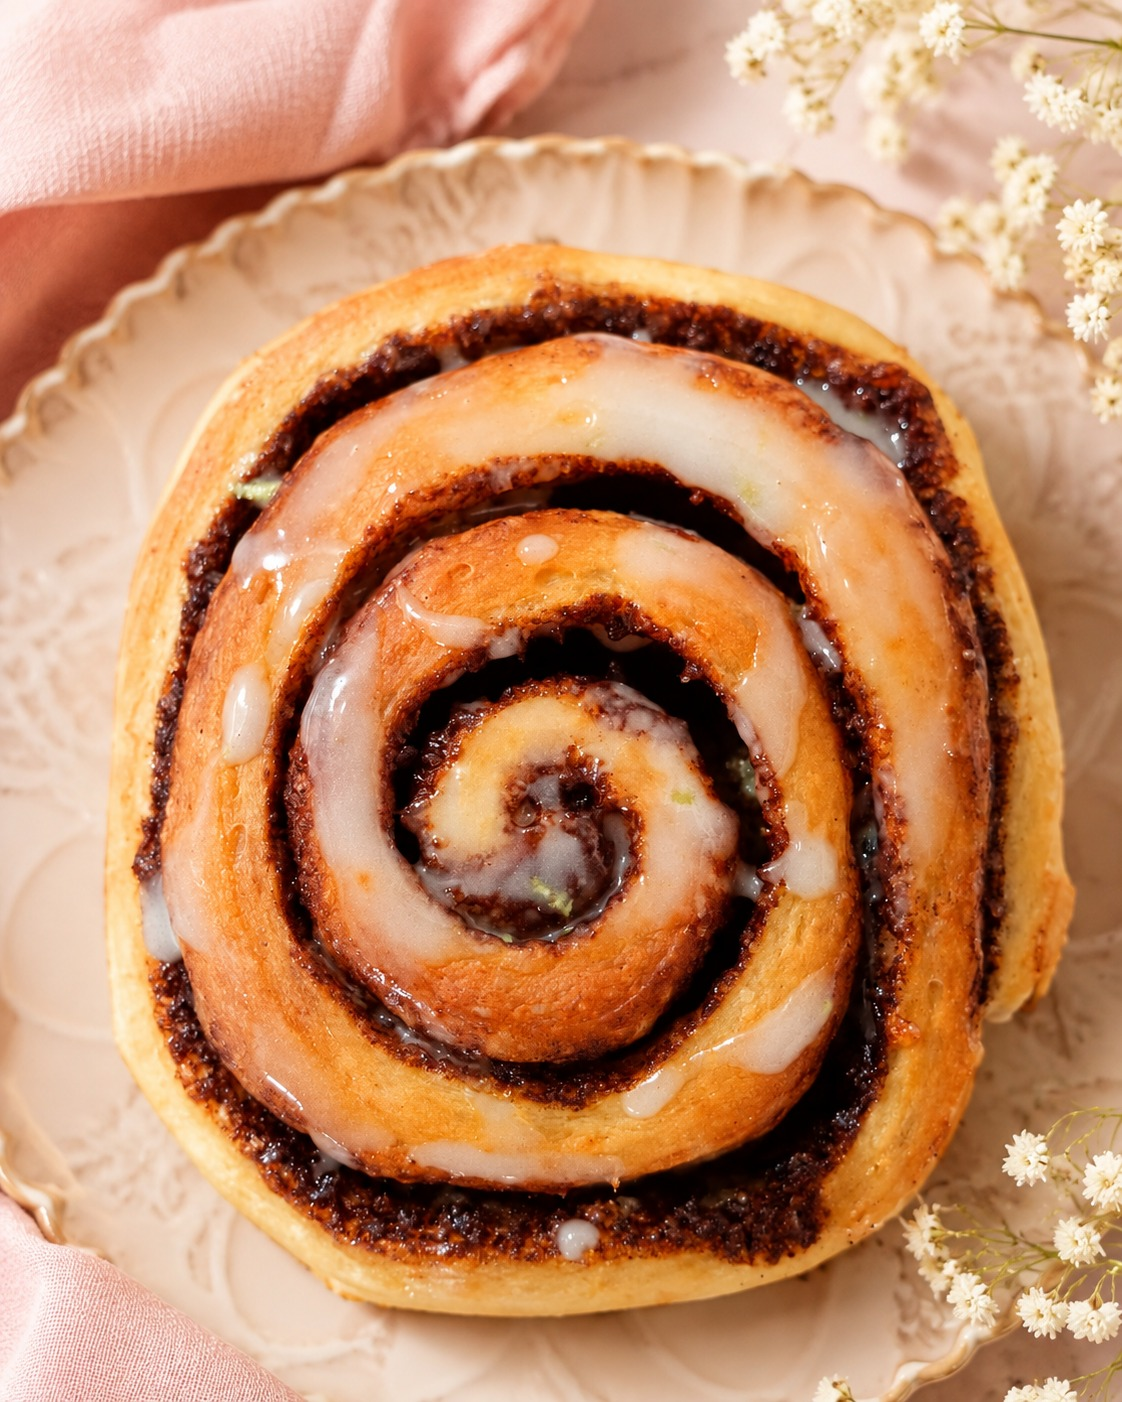
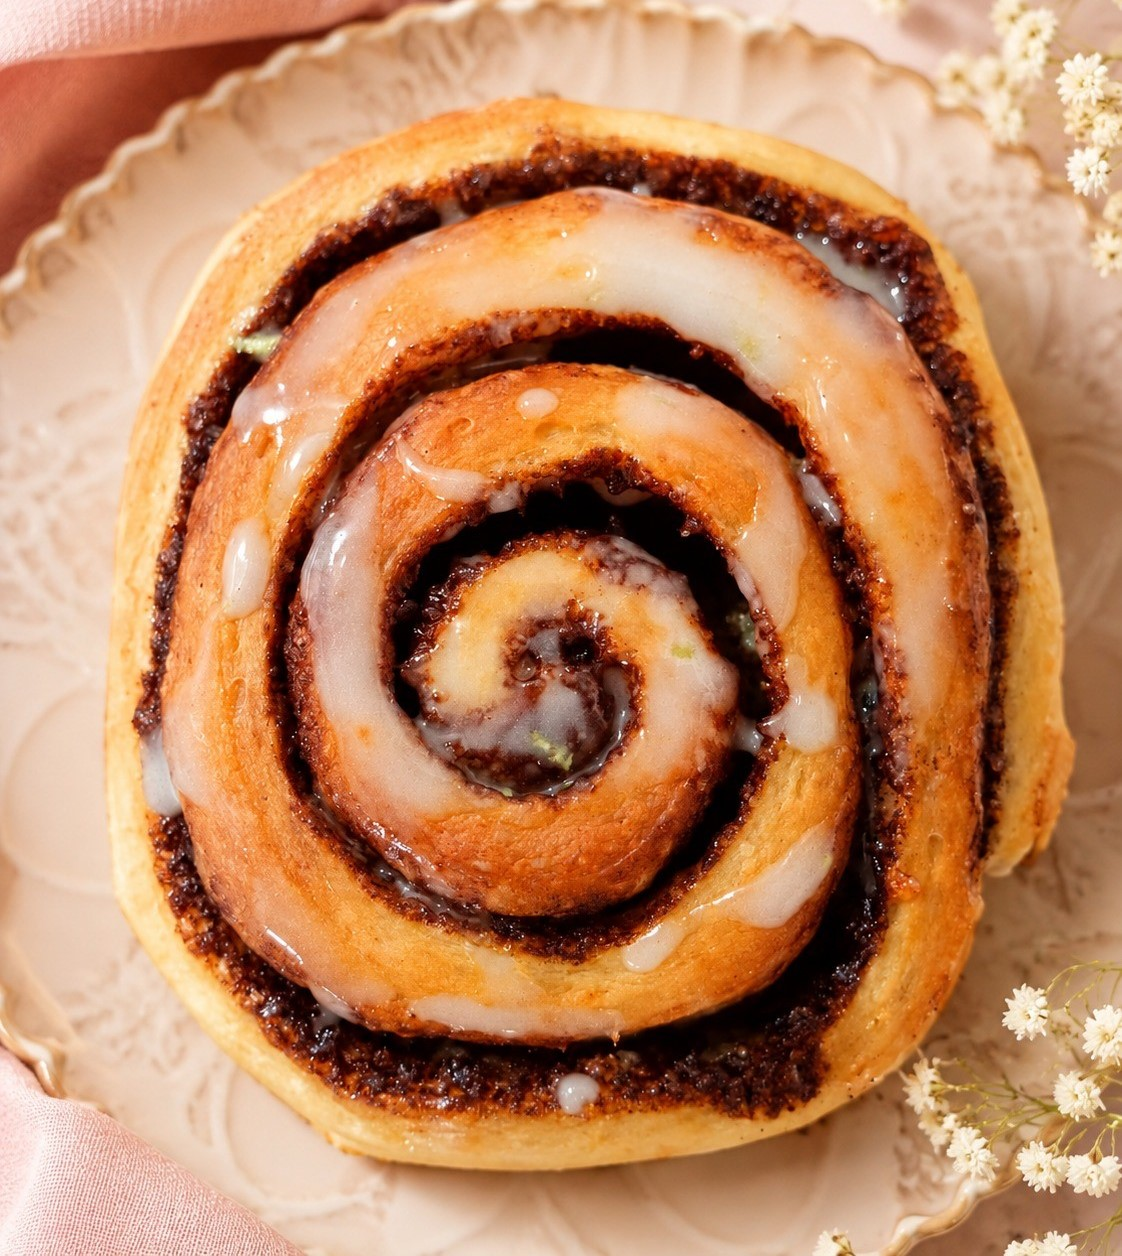
ajustes textos y se agregan fotos

diff --git a/app/page.tsx b/app/page.tsx
@@ -55,9 +55,10 @@ export default function Home() {
       <section className="hero">
         <div className="heroOverlay">
           <p className="eyebrow">HECHO CON INTENCIÓN</p>
-          <h1>Productos que<br />merecen ser descubiertos.</h1>
+          <h1 >Repostería y panadería hecha con cariño para disfrutar y compartir.</h1>
+          
           <p className="heroText">
-            Repostería y panadería hecha con cariño para disfrutar y compartir.
+            Productos que merecen ser descubiertos.
           </p>
           <a className="button" href="#productos">Ver productos</a>
         </div>
@@ -133,7 +134,7 @@ Dani es cercanía, sabor y amor en cada creación.
       <section id="reviews" className="section reviews">
         <div className="sectionHeading reviewsHeading">
           <div>
-            <p className="eyebrow">REVIEWS</p>
+            <p className="eyebrow"></p>
             <h2>Lo que dicen nuestros clientes</h2>
           </div>
         </div>
@@ -200,7 +201,7 @@ Dani es cercanía, sabor y amor en cada creación.
 
     <div>
       <Image
-        src="/images/galeria-4.jpg"
+        src="/images/alfajores.jpeg"
         alt="Panadería artesanal"
         fill
       />
@@ -208,7 +209,7 @@ Dani es cercanía, sabor y amor en cada creación.
 
     <div>
       <Image
-        src="/images/galeria-5.jpg"
+        src="/images/galeria-5.jpeg"
         alt="Productos artesanales"
         fill
       />

diff --git a/data/products.ts b/data/products.ts
@@ -36,26 +36,34 @@ export const products: Product[] = [
   },
   {
     id: 4,
-    name: "Producto especial",
+    name: "Alfajores",
     category: "Especiales",
-    description: "Agrega aquí tu producto destacado y una descripción breve.",
-    price: "$20.000",
-    image: "/images/cookies-rellenas.jpeg"
+    description: "Deliciosos alfajores rellenos de arequipe.",
+    price: "$15.000",
+    image: "/images/alfajor2.jpeg"
   },
   {
     id: 5,
-    name: "Producto especial",
+    name: "Pan de queso",
     category: "Especiales",
-    description: "Agrega aquí tu producto destacado y una descripción breve.",
+    description: "Delicioso pan de queso, suave y lleno de sabor.",
     price: "$20.000",
-    image: "/images/cookies-rellenas.jpeg"
+    image: "/images/panqueso.jpeg"
   },
   {
     id: 6,
-    name: "Producto especial",
+    name: "Pan de chocolate",
     category: "Especiales",
-    description: "Agrega aquí tu producto destacado y una descripción breve.",
+    description: "Delicioso pan de chocolate, suave y relleno cremoso.",
     price: "$20.000",
-    image: "/images/cookies-rellenas.jpeg"
+    image: "/images/pan-chocolate1.jpeg"
+  },
+  {
+    id: 7,
+    name: "Pastel arequipe",
+    category: "Especiales",
+    description: "Delicioso pastel relleno de arequipe.",
+    price: "$20.000",
+    image: "/images/pastel-arequipe1.jpeg"
   }
 ];
